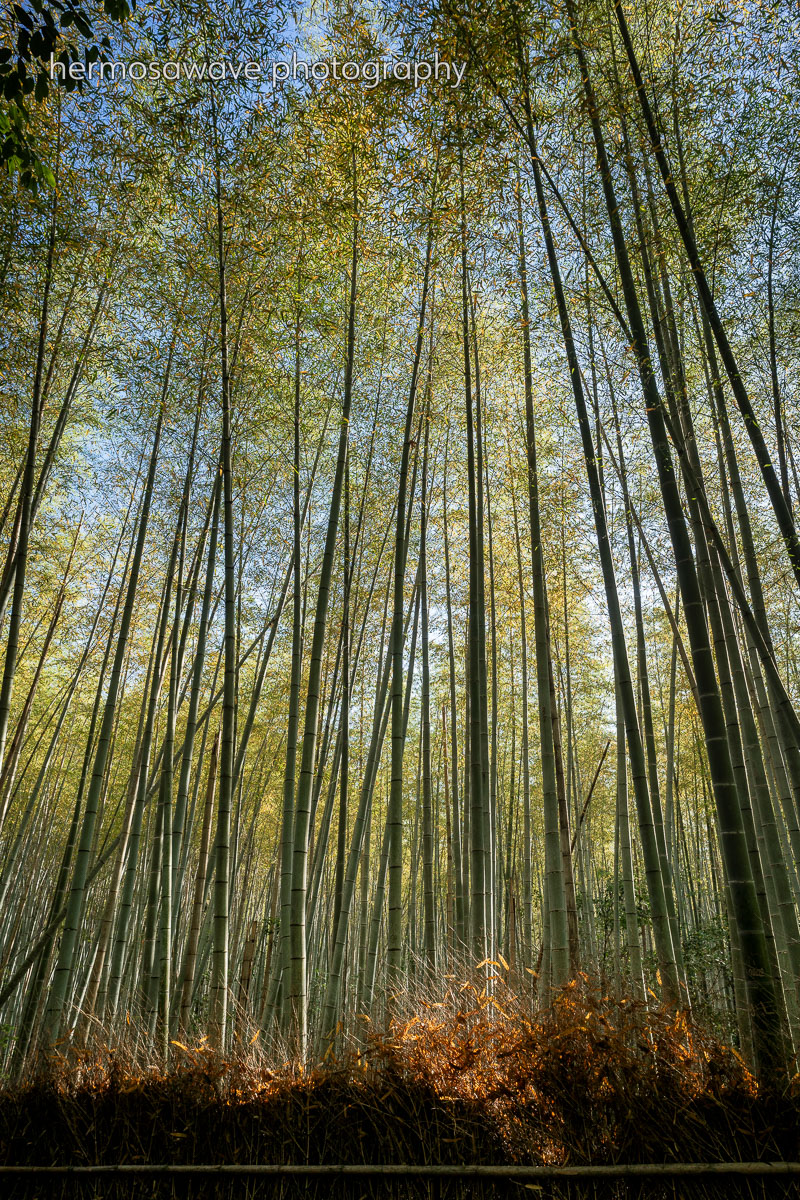
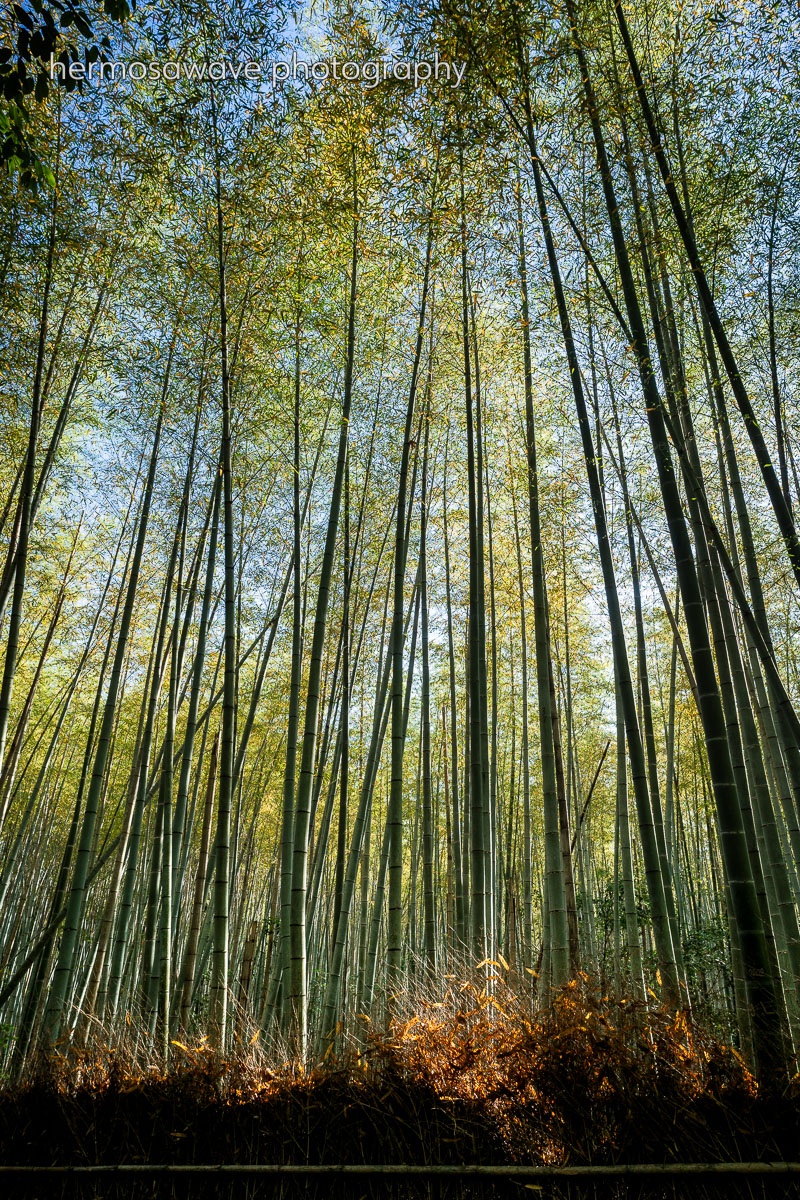
more contrasty photo

diff --git a/240514/index.html b/240514/index.html
@@ -52,7 +52,7 @@ font-family: ryo-gothic-plusn, sans-serif; (200, 400, 700)
       <!-- OpenGraph Attributes -->
       <meta property="og:type" content="website" />
       <meta property="og:url" content="https://hermosawavephotography.com/240514/" />
-      <meta property="og:image" content="https://hermosawavephotography.com/assets/images/2024/2405_A7R00205-2.jpg" />
+      <meta property="og:image" content="https://hermosawavephotography.com/assets/images/2024/2405_A7R00205.jpg" />
       <meta property="og:site_name" content="Hermosawave Photography" />
       <meta property="og:image:type" content="image/jpeg" />   
       <meta property="og:image:alt" content="Bamboo Grove・竹林" />
@@ -106,7 +106,7 @@ font-family: ryo-gothic-plusn, sans-serif; (200, 400, 700)
          </div>
          <a href="/240512/">
           
-            <img id="img1"  src="/assets/images/2024/2405_A7R00205-2.jpg" alt="Bamboo Grove・竹林" title="Next photo >>"/>
+            <img id="img1"  src="/assets/images/2024/2405_A7R00205.jpg" alt="Bamboo Grove・竹林" title="Next photo >>"/>
          </a>
 
     </div>

diff --git a/thumbnails/index.html b/thumbnails/index.html
@@ -146,7 +146,7 @@ font-family: ryo-gothic-plusn, sans-serif; (200, 400, 700)
       
         <div class="thumbnail">
             <div class="thumbnailimage">
-            <a href="/240514/"><img src="/assets/images/2024/2405_A7R00205-2.jpg" alt="Bamboo Grove・竹林" title="Bamboo Grove・竹林: Click to view larger・クリックして拡大表示"/></a>
+            <a href="/240514/"><img src="/assets/images/2024/2405_A7R00205.jpg" alt="Bamboo Grove・竹林" title="Bamboo Grove・竹林: Click to view larger・クリックして拡大表示"/></a>
              </div>
 
             <a href="/240514/">May 14, 2024<br/>Bamboo Grove・竹林</a>

diff --git a/categories/index.html b/categories/index.html
@@ -100,7 +100,7 @@ font-family: ryo-gothic-plusn, sans-serif; (200, 400, 700)
     
   <div class="thumbnail float">
         <div class="thumbnailimage">
-        <a href="/categories/arashiyama.html"><img src="/assets/images/2024/2405_A7R00205-2.jpg" title="Click to view photos of Arashiyama"/></a>
+        <a href="/categories/arashiyama.html"><img src="/assets/images/2024/2405_A7R00205.jpg" title="Click to view photos of Arashiyama"/></a>
          </div>
            
         <a href="/240514/">May 14, 2024<br/>Bamboo Grove・竹林</a>

diff --git a/categories/arashiyama.html b/categories/arashiyama.html
@@ -96,7 +96,7 @@ font-family: ryo-gothic-plusn, sans-serif; (200, 400, 700)
     
     <div class="thumbnail">
         <div class="thumbnailimage">
-        <a href="/240514/"><img src="/assets/images/2024/2405_A7R00205-2.jpg" title="Click to view larger・クリックして拡大表示"/></a>
+        <a href="/240514/"><img src="/assets/images/2024/2405_A7R00205.jpg" title="Click to view larger・クリックして拡大表示"/></a>
          </div>
            
         <a href="/240514/">May 14, 2024<br/>Bamboo Grove・竹林</a>
